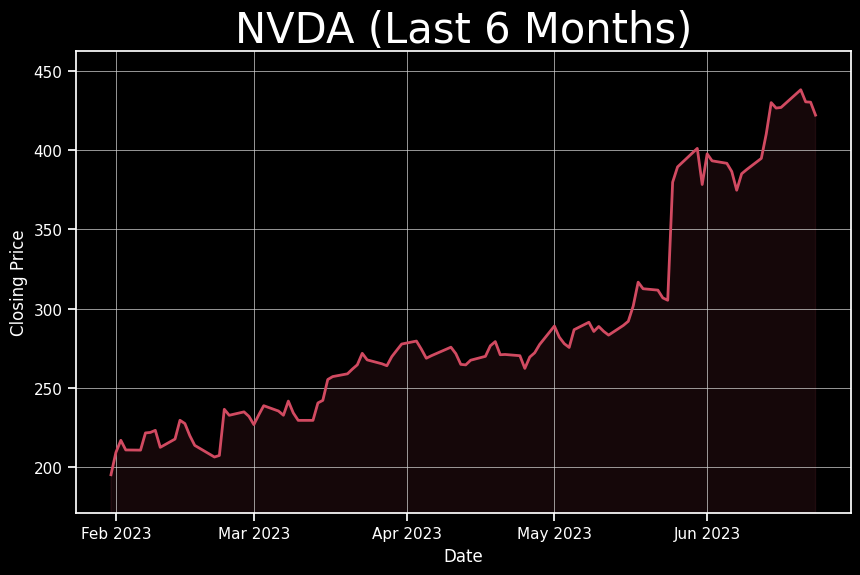
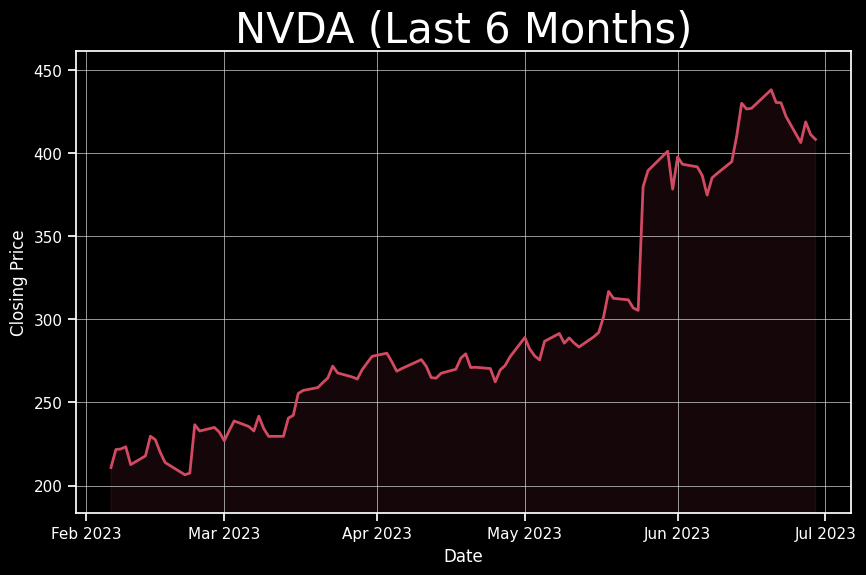
volatility! :3

diff --git a/static/css/vt.css b/static/css/vt.css
@@ -1,0 +1,79 @@
+body {
+    font-family: 'Poppins', sans-serif;
+    color: #f0f0f0; 
+    background-color: #2C1F1F;
+    line-height: 1.6;
+  }
+  
+  .container {
+    max-width: 1200px;
+    margin: 0 auto;
+    padding: 0 2em;
+    text-align: center;
+  }
+  
+  h1.title {
+    margin: 2em 0;
+    color: #FFA500; 
+    font-size: 2.5em;
+  }
+  
+  .form {
+    display: flex;
+    flex-direction: column;
+    align-items: center;
+    margin-bottom: 2em;
+  }
+  
+  .form .form-group {
+    display: flex;
+    flex-direction: column;
+    margin-bottom: 1em;
+    width: 60%;
+  }
+  
+  .form .form-group label {
+    margin-bottom: 0.5em;
+    font-weight: 600;
+  }
+  
+  .form .form-group input {
+    padding: 0.5em;
+    border: 2px solid #f0f0f0;
+    border-radius: 4px;
+    font-size: 1em;
+    background-color: #2C1F1F; 
+    color: #f0f0f0; 
+    font-style:inherit;
+    font-weight:normal;
+  }
+  
+  .form .submit-button {
+    margin-top:30px;
+    padding: 0.6em 1.2em;
+    border: none;
+    border-radius: 4px;
+    background-color: #FFA500;
+    color: #2C1F1F; 
+    cursor: pointer;
+    transition: background-color 0.3s ease;
+    font-family: inherit;
+    font-weight: bold;
+    font-size:18px;
+  }
+  
+  .form .submit-button:hover {
+    background-color: #FF4500; 
+  }
+  
+  h2.subtitle {
+    color: #FFA500;
+    font-size: 2em;
+    margin-bottom: 1em;
+  }
+  
+  .image {
+    max-width: 100%;
+    height: auto;
+  }
+

diff --git a/templates/vt.html b/templates/vt.html
@@ -1,0 +1,20 @@
+<!DOCTYPE html>
+<html lang="en">
+<head>
+    <link rel="stylesheet" href="{{ url_for('static', filename='css/vt.css') }}">
+    <meta charset="UTF-8">
+    <title>Stock Volatility Calculator</title>
+</head>
+<body>
+    <h1>Stock Volatility Calculator</h1>
+    <form action="/vt" method="get">
+        <label for="symbol">Enter a ticker symbol:</label>
+        <input type="text" id="symbol" name="symbol" required>
+        <input type="submit" value="Calculate Volatility">
+    </form>
+    {% if vt %}
+    <p>The volatility for {{symbol}} over the past 6 months is {{vt|round(2)}}</p>
+    <img src="{{ url_for('static', filename='images/' + symbol + '.png') }}" alt="Volatility Graph">
+    {% endif %}
+</body>
+</html>

diff --git a/templates/index.html b/templates/index.html
@@ -23,6 +23,7 @@
         <div class="form">
           <a href="/tracker" class="submit-button">Tracker</a>
           <a href="/collage" class="submit-button">Collage</a>
+          <a href="/vt" class="submit-button">Volatility</a>
         </div>
       </div>
       <script>

diff --git a/templates/base.html b/templates/base.html
@@ -10,6 +10,7 @@
       <nav class="nav">
         <a href="/tracker">Tracker</a>
         <a href="/collage">Collage</a>
+        <a href="/vt">Volatility</a>
         <a href="/contact">Contact</a>
       </nav>
     </div>

diff --git a/volatility/vt.py b/volatility/vt.py
@@ -1,0 +1,83 @@
+import os
+import requests
+import numpy as np
+from dotenv import load_dotenv
+import seaborn as sns
+import pandas as pd
+import matplotlib.pyplot as plt
+import matplotlib.dates as mdates
+
+load_dotenv()
+
+def calculate_vt(symbol):
+    API_KEY = os.getenv('AV_API_KEY')
+
+    url = f'https://www.alphavantage.co/query?function=TIME_SERIES_DAILY_ADJUSTED&symbol={symbol}&apikey={API_KEY}'
+
+    response = requests.get(url)
+    data = response.json()
+    print(data)
+    close_prices = [float(values['5. adjusted close']) for values in data['Time Series (Daily)'].values()]
+
+    daily_returns = [0]
+    for i in range(1, len(close_prices)):
+        daily_returns.append((close_prices[i] - close_prices[i-1]) / close_prices[i-1])
+
+    volatility = np.std(daily_returns) * np.sqrt(252) 
+
+    return volatility
+
+def calculate_vt_and_graph(symbol, data):
+    dates = [pd.to_datetime(date) for date in data['Time Series (Daily)'].keys()]
+    close_prices = [float(values['5. adjusted close']) for values in data['Time Series (Daily)'].values()]
+
+    df = pd.DataFrame({
+        'date': dates,
+        'close': close_prices
+    })
+
+    df.set_index('date', inplace=True)
+    df.sort_index(inplace=True)
+
+    daily_returns = df['close'].pct_change().dropna()
+
+    volatility = daily_returns.std() * (252**0.5) 
+
+    with plt.style.context('dark_background'):  
+        color = sns.color_palette("flare")[0] 
+        fig, ax = plt.subplots(figsize=(10, 6))
+        ax.plot(df['close'], color=color, linewidth=2.0) 
+        ax.fill_between(df.index, df['close'], color=color, alpha=0.1)
+        
+        min_close = df['close'].min()
+        max_close = df['close'].max()
+        padding = (max_close - min_close) * 0.1
+        ax.set_ylim([min_close - padding, max_close + padding])
+        
+        ax.set_title(f'{symbol.upper()} (Last 6 Months)', color='white', fontsize=30) 
+        ax.set_xlabel('Date', color='white')  
+        ax.set_ylabel('Closing Price', color='white') 
+        ax.grid(True, linewidth=0.5, color='#d3d3d3', linestyle='-') 
+        ax.xaxis.set_major_formatter(mdates.DateFormatter('%b %Y')) 
+        ax.tick_params(colors='white') 
+
+        images_dir = 'static/images'
+        os.makedirs(images_dir, exist_ok=True)
+        plt.savefig(os.path.join(images_dir, f'{symbol}.png'), bbox_inches='tight', facecolor=fig.get_facecolor())
+        print(f'Saved {symbol}.png to {images_dir}')
+        plt.close(fig)
+
+    return volatility
+
+def get_data(symbol):
+    API_KEY = os.getenv('AV_API_KEY')
+    url = f'https://www.alphavantage.co/query?function=TIME_SERIES_DAILY_ADJUSTED&symbol={symbol}&apikey={API_KEY}'
+    response = requests.get(url)
+    data = response.json()
+
+    return data
+
+if __name__ == "__main__":
+    symbol = input("Enter a ticker symbol: ")
+    volatility = calculate_vt(symbol)
+    print(f"The annualized volatility for {symbol} is {volatility}")

diff --git a/app.py b/app.py
@@ -1,6 +1,6 @@
 import os
 
-from flask import Flask, render_template, request
+from flask import Flask, jsonify, render_template, request
 from flask_assets import Environment, Bundle
 
 from flask_wtf import FlaskForm
@@ -20,6 +20,10 @@ import base64
 from io import BytesIO
 from dotenv import load_dotenv
 
+
+from volatility.vt import calculate_vt, calculate_vt_and_graph,get_data
+
+
 app = Flask(__name__)
 
 load_dotenv()
@@ -29,7 +33,6 @@ tickers = []
 
 sns.set_context("notebook")
 
-app = Flask(__name__)
 assets = Environment(app)
 assets.load_path = ['static/css']
 
@@ -42,7 +45,7 @@ class TickerForm(FlaskForm):
     ticker = StringField('Ticker', validators=[DataRequired()])
     date = StringField('Date (YYYY-MM-DD)', validators=[DataRequired()])
     submit = SubmitField('Submit')
-
+    
 
 def save_stock_data(ticker, date):
     try:
@@ -131,6 +134,16 @@ def tracker():
                 return render_template('error.html', message=f'An error occurred when trying to plot data: {str(e)}')
     return render_template('tracker.html', form=form, plot_url=plot_url)
 
+@app.route('/vt', methods=['GET'])
+def get_vt():
+    symbol = request.args.get('symbol')
+    if symbol is None:
+        return render_template('vt.html')
+
+    data = get_data(symbol)
+    vt = calculate_vt_and_graph(symbol,data)
+
+    return render_template('vt.html', symbol=symbol, vt=vt)
 
 @app.route('/contact')
 def contact():
